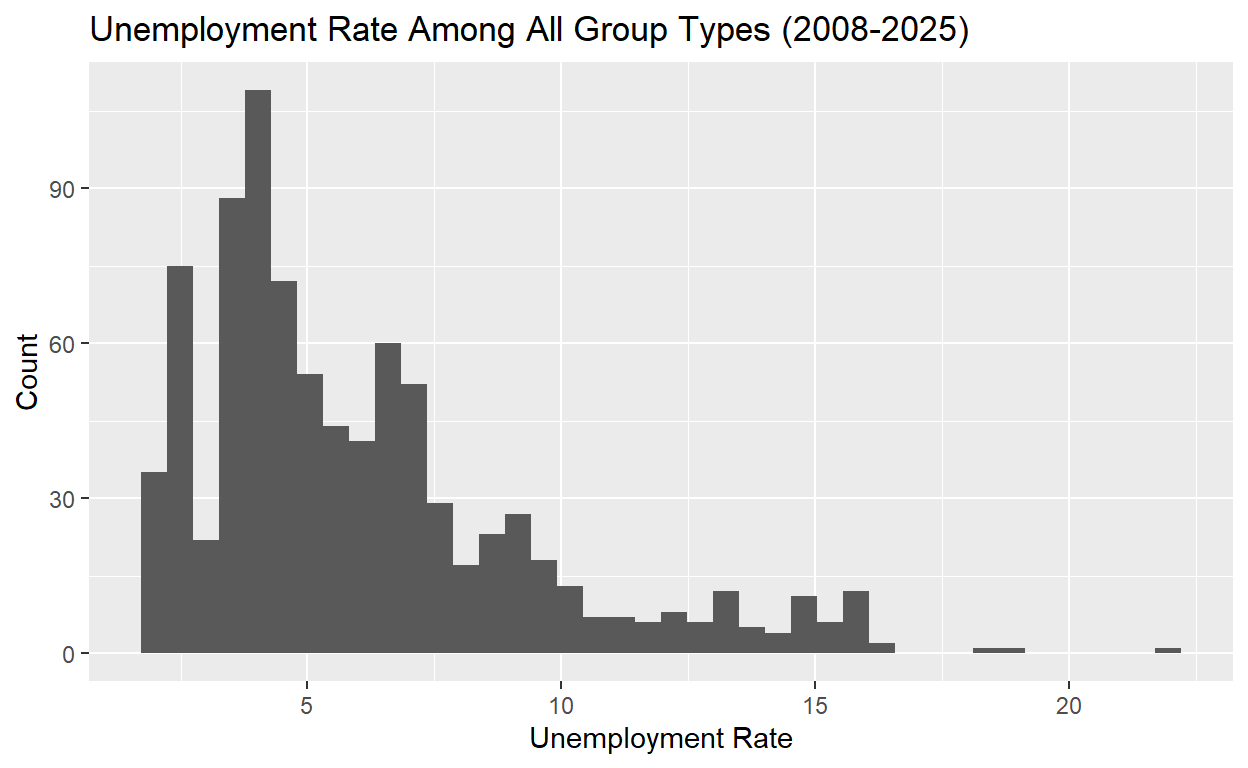
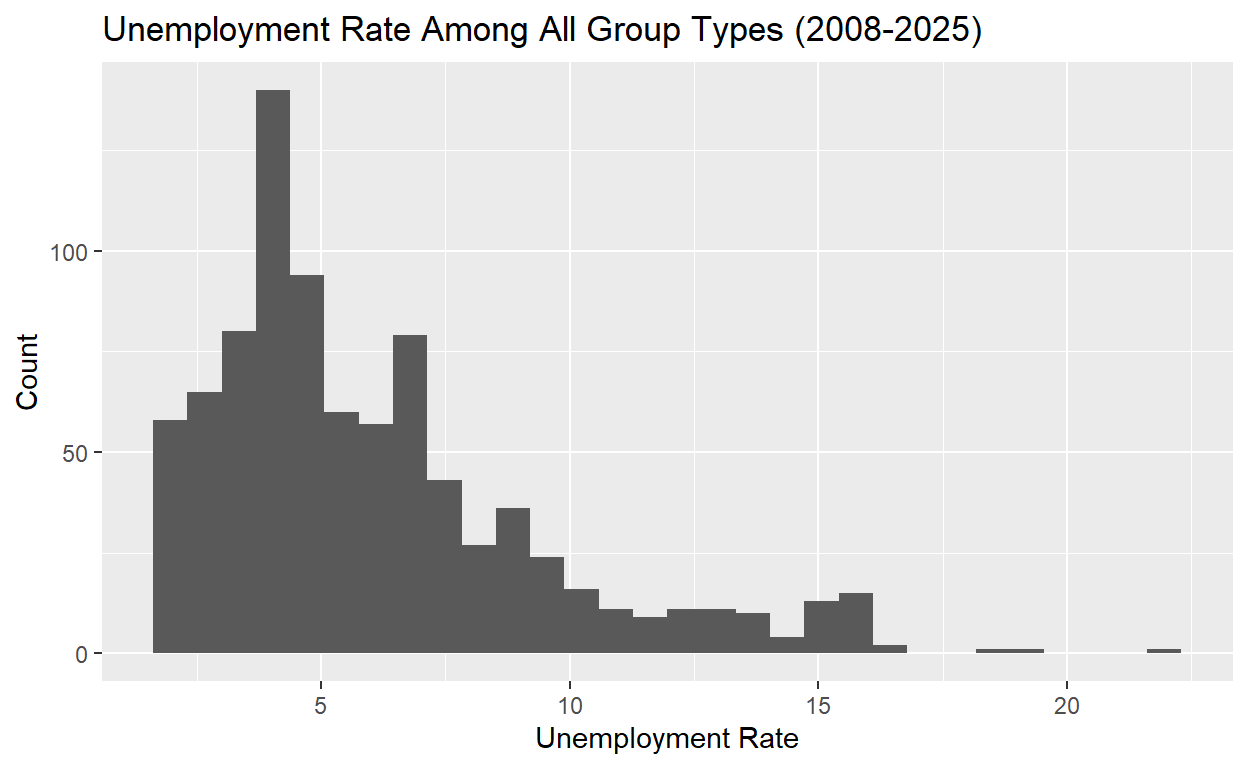
done

diff --git a/index.html b/index.html
@@ -1595,7 +1595,7 @@ In a “Current Population Survey” from the U.S. Census Bureau and U.S. Bureau
 <div class="sourceCode">
 <pre class="sourceCode r"><code class="sourceCode r"><span><span class='fu'><a href='https://ggplot2.tidyverse.org/reference/ggplot.html'>ggplot</a></span><span class='op'>(</span><span class='va'>college_labor</span>,</span>
 <span>       <span class='fu'><a href='https://ggplot2.tidyverse.org/reference/aes.html'>aes</a></span><span class='op'>(</span>x <span class='op'>=</span> <span class='va'>unemployment_rate</span><span class='op'>)</span><span class='op'>)</span> <span class='op'>+</span></span>
-<span>  <span class='fu'><a href='https://ggplot2.tidyverse.org/reference/geom_histogram.html'>geom_histogram</a></span><span class='op'>(</span>bins <span class='op'>=</span> <span class='fl'>40</span><span class='op'>)</span> <span class='op'>+</span></span>
+<span>  <span class='fu'><a href='https://ggplot2.tidyverse.org/reference/geom_histogram.html'>geom_histogram</a></span><span class='op'>(</span>bins <span class='op'>=</span> <span class='fl'>30</span><span class='op'>)</span> <span class='op'>+</span></span>
 <span>  <span class='fu'><a href='https://ggplot2.tidyverse.org/reference/labs.html'>labs</a></span><span class='op'>(</span> x <span class='op'>=</span> <span class='st'>"Unemployment Rate"</span>,</span>
 <span>        y <span class='op'>=</span> <span class='st'>"Count"</span>,</span>
 <span>          title <span class='op'>=</span> <span class='st'>"Unemployment Rate Among All Group Types (2008-2025)"</span> <span class='op'>)</span></span></code></pre>
@@ -1621,7 +1621,8 @@ In a “Current Population Survey” from the U.S. Census Bureau and U.S. Bureau
 <div class="sourceCode">
 <pre class="sourceCode r"><code class="sourceCode r"><span><span class='va'>college_labor</span> <span class='op'>|&gt;</span></span>
 <span>  <span class='fu'><a href='https://ggplot2.tidyverse.org/reference/ggplot.html'>ggplot</a></span><span class='op'>(</span>mapping <span class='op'>=</span> <span class='fu'><a href='https://ggplot2.tidyverse.org/reference/aes.html'>aes</a></span><span class='op'>(</span>x <span class='op'>=</span> <span class='va'>`Date`</span>, y <span class='op'>=</span> <span class='va'>unemployment_rate</span>, color <span class='op'>=</span> <span class='va'>group</span><span class='op'>)</span><span class='op'>)</span> <span class='op'>+</span></span>
-<span>  <span class='fu'><a href='https://ggplot2.tidyverse.org/reference/geom_path.html'>geom_line</a></span><span class='op'>(</span>linewidth <span class='op'>=</span> <span class='fl'>1.0</span><span class='op'>)</span> <span class='op'>+</span></span>
+<span>  <span class='fu'><a href='https://ggplot2.tidyverse.org/reference/geom_path.html'>geom_line</a></span><span class='op'>(</span>linewidth <span class='op'>=</span> <span class='fl'>0.8</span><span class='op'>)</span> <span class='op'>+</span></span>
+<span>    <span class='fu'><a href='https://ggplot2.tidyverse.org/reference/scale_date.html'>scale_x_date</a></span><span class='op'>(</span>date_breaks <span class='op'>=</span> <span class='st'>"2 years"</span>, date_labels <span class='op'>=</span> <span class='st'>"%Y"</span><span class='op'>)</span> <span class='op'>+</span></span>
 <span>  <span class='fu'><a href='https://ggplot2.tidyverse.org/reference/labs.html'>labs</a></span><span class='op'>(</span> x <span class='op'>=</span> <span class='st'>"Date"</span>, </span>
 <span>        y <span class='op'>=</span> <span class='st'>"Unemployment Rate"</span>, </span>
 <span>        title <span class='op'>=</span> <span class='st'>"Unemployment Rate Among Group Types"</span>,</span>
